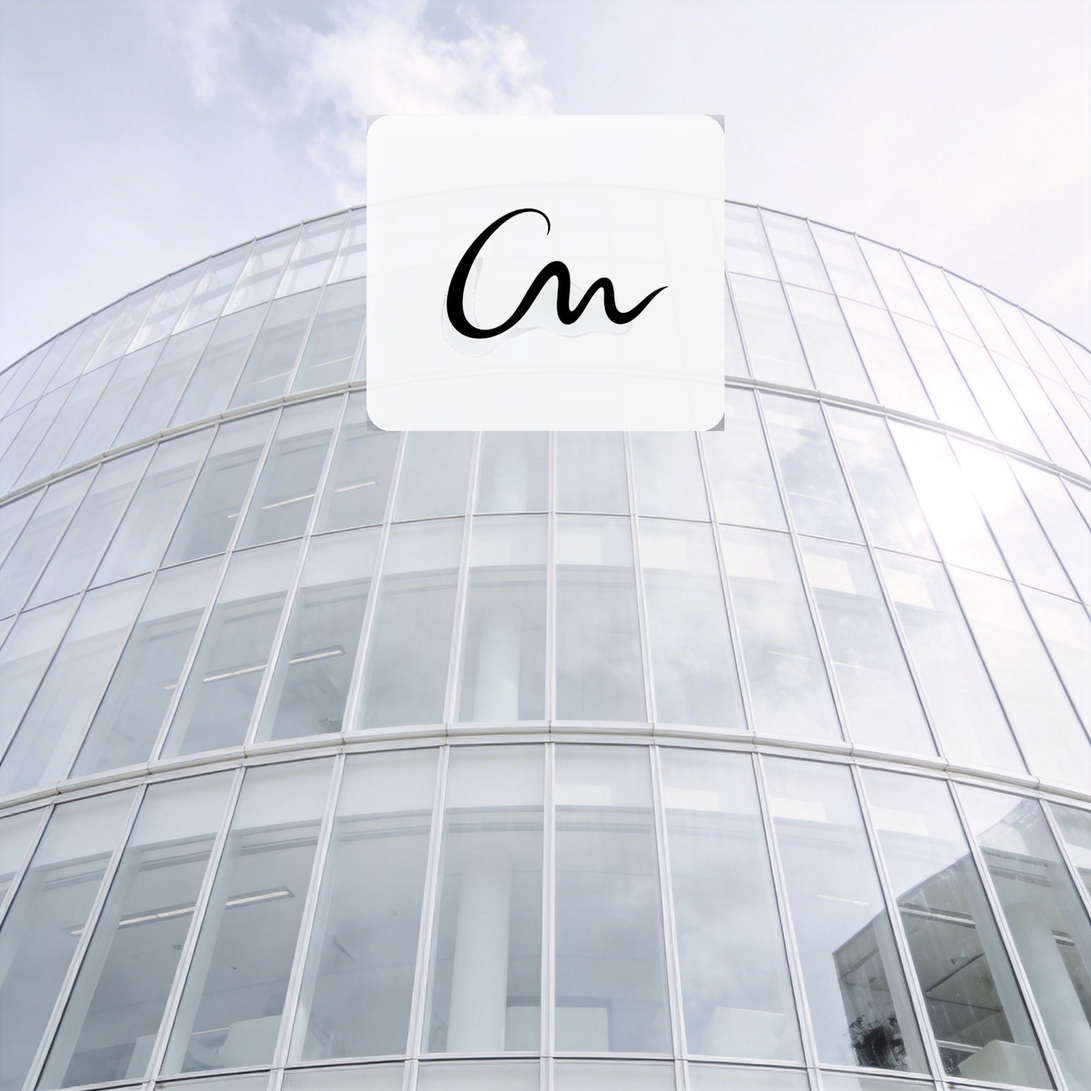
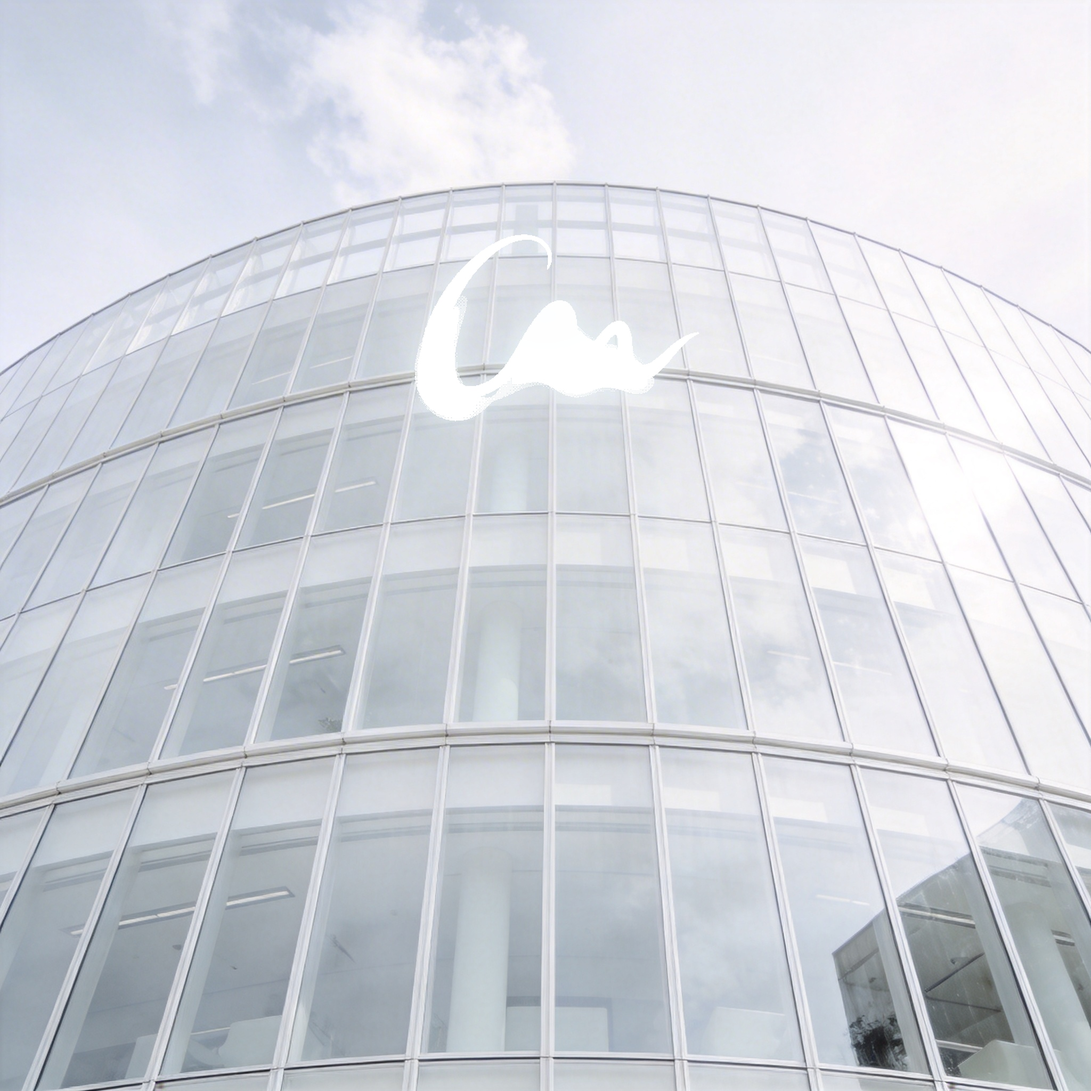
feat: 大场景logo改为白色发光线条效果，实物化处理

Changed region(s): [[0.3125, 0.1562, 0.6562, 0.4062], [0.5938, 0.3125, 0.6562, 0.375]]

diff --git a/create-glowing-logo.py b/create-glowing-logo.py
@@ -1,0 +1,99 @@
+#!/usr/bin/env python3
+from PIL import Image, ImageFilter, ImageEnhance
+import numpy as np
+import os
+
+def create_white_line_logo():
+    """创建白色发光线条logo"""
+    # 读取透明背景logo
+    logo_path = "/workspace/projects/public/cm-logo-transparent.png"
+    logo = Image.open(logo_path).convert("RGBA")
+    data = np.array(logo)
+
+    # 将黑色像素转换为白色，保留透明度
+    r, g, b, a = data[:, :, 0], data[:, :, 1], data[:, :, 2], data[:, :, 3]
+
+    # 找到非透明像素（logo内容）
+    is_logo = a > 0
+
+    # 将非透明像素的颜色改为白色
+    data[is_logo, 0] = 255  # R
+    data[is_logo, 1] = 255  # G
+    data[is_logo, 2] = 255  # B
+
+    # 保存为纯白色线条logo
+    white_logo = Image.fromarray(data)
+    white_logo.save("/workspace/projects/public/cm-logo-white-line.png", "PNG")
+
+    print("✅ 纯白色线条logo已保存: cm-logo-white-line.png")
+    print(f"   尺寸: {white_logo.size}")
+
+    return white_logo
+
+def create_glowing_line_logo(base_logo, glow_layers=3):
+    """创建多层发光效果的线条logo"""
+    result = base_logo.copy()
+    data = np.array(result)
+
+    # 多层发光
+    for i in range(glow_layers):
+        # 每一层的发光参数
+        blur_radius = 10 + i * 8
+        opacity = 80 - i * 20
+
+        # 创建发光层
+        glow = base_logo.copy()
+        glow_data = np.array(glow)
+
+        # 设置发光颜色（白色带蓝色调）
+        r, g, b, a = glow_data[:, :, 0], glow_data[:, :, 1], glow_data[:, :, 2], glow_data[:, :, 3]
+
+        # 只对非透明像素应用发光
+        is_non_transparent = a > 0
+
+        # 设置发光颜色
+        glow_data[is_non_transparent, 0] = 240  # R (略带蓝色)
+        glow_data[is_non_transparent, 1] = 245  # G
+        glow_data[is_non_transparent, 2] = 255  # B
+        glow_data[is_non_transparent, 3] = opacity  # 透明度
+
+        glow = Image.fromarray(glow_data)
+
+        # 应用高斯模糊
+        glow = glow.filter(ImageFilter.GaussianBlur(blur_radius))
+
+        # 合并发光层到结果
+        result = Image.alpha_composite(result, glow)
+
+    # 添加核心线条（最亮的）
+    core_line = base_logo.copy()
+    core_data = np.array(core_line)
+    r, g, b, a = core_data[:, :, 0], core_data[:, :, 1], core_data[:, :, 2], core_data[:, :, 3]
+
+    is_non_transparent = a > 0
+    core_data[is_non_transparent, 0] = 255  # 纯白色
+    core_data[is_non_transparent, 1] = 255
+    core_data[is_non_transparent, 2] = 255
+    core_data[is_non_transparent, 3] = 255  # 不透明
+
+    core_line = Image.fromarray(core_data)
+    result = Image.alpha_composite(result, core_line)
+
+    result.save("/workspace/projects/public/cm-logo-glowing-white.png", "PNG")
+    print("✅ 发光白色线条logo已保存: cm-logo-glowing-white.png")
+
+    return result
+
+# 执行
+print("开始创建白色发光线条logo...")
+print()
+
+# 1. 创建纯白色线条logo
+white_logo = create_white_line_logo()
+print()
+
+# 2. 创建多层发光效果
+glowing_logo = create_glowing_line_logo(white_logo, glow_layers=4)
+print()
+
+print("✅ 完成！")

diff --git a/composite-building-logo.py b/composite-building-logo.py
@@ -1,0 +1,90 @@
+#!/usr/bin/env python3
+from PIL import Image, ImageFilter, ImageEnhance
+import numpy as np
+import os
+
+def composite_glowing_logo_to_building():
+    """将发光线条logo合成到大场景上"""
+    # 读取清洁的大场景
+    building = Image.open("/workspace/projects/public/building-clean.jpg").convert("RGBA")
+
+    # 读取发光logo
+    logo = Image.open("/workspace/projects/public/cm-logo-glowing-white.png").convert("RGBA")
+
+    # 调整logo大小（根据建筑大小）
+    logo_width = 600  # logo宽度
+    logo_height = int(logo_width / logo.size[0] * logo.size[1])
+    logo_resized = logo.resize((logo_width, logo_height), Image.Resampling.LANCZOS)
+
+    # 计算位置：放在建筑顶部中央位置
+    x = (building.size[0] - logo_width) // 2
+    y = building.size[1] // 6  # 从顶部1/6处开始
+
+    # 创建一个临时图层来合成logo
+    result = building.copy()
+
+    # 为logo添加额外的环境光反射效果
+    logo_data = np.array(logo_resized)
+    r, g, b, a = logo_data[:, :, 0], logo_data[:, :, 1], logo_data[:, :, 2], logo_data[:, :, 3]
+
+    # 对logo进行轻微的颜色调整，使其与建筑玻璃反光融合
+    is_non_transparent = a > 0
+
+    # 增加一些蓝色调，模拟玻璃反光
+    logo_data[is_non_transparent, 0] = np.clip(logo_data[is_non_transparent, 0] * 1.0, 0, 255)
+    logo_data[is_non_transparent, 1] = np.clip(logo_data[is_non_transparent, 1] * 1.05, 0, 255)
+    logo_data[is_non_transparent, 2] = np.clip(logo_data[is_non_transparent, 2] * 1.1, 0, 255)
+
+    logo_resized = Image.fromarray(logo_data)
+
+    # 合成logo到建筑
+    result.paste(logo_resized, (x, y), logo_resized)
+
+    # 添加全局发光氛围（在logo周围的轻微光晕）
+    glow_layer = Image.new("RGBA", building.size, (0, 0, 0, 0))
+
+    # 在logo位置创建一个淡淡的蓝色光晕
+    glow_radius = 150
+    glow_x = x + logo_width // 2
+    glow_y = y + logo_height // 2
+
+    # 创建径向渐变光晕
+    for i in range(glow_radius, 0, -5):
+        alpha = int(30 * (1 - i / glow_radius))  # 中心不透明，边缘透明
+        color = (240, 245, 255, alpha)
+
+        # 绘制椭圆光晕
+        from PIL import ImageDraw
+        draw = ImageDraw.Draw(glow_layer)
+        bbox = [
+            glow_x - i,
+            glow_y - int(i * 0.6),
+            glow_x + i,
+            glow_y + int(i * 0.6)
+        ]
+        draw.ellipse(bbox, fill=color)
+
+    # 合并光晕
+    result = Image.alpha_composite(result, glow_layer)
+
+    # 转换为RGB并保存
+    result_rgb = result.convert("RGB")
+    output_path = "/workspace/projects/public/building-final.jpg"
+    result_rgb.save(output_path, "JPEG", quality=98)
+
+    print(f"✅ 发光线条logo已合成到大场景")
+    print(f"   输出: {output_path}")
+    print(f"   Logo位置: ({x}, {y})")
+    print(f"   Logo尺寸: {logo_width}x{logo_height}")
+
+    return output_path
+
+# 执行
+print("开始将发光线条logo合成到大场景...")
+print()
+
+output = composite_glowing_logo_to_building()
+
+print()
+print("✅ 完成！")
+print(f"新的大场景已保存: {output}")

diff --git a/verify-building-logo.py b/verify-building-logo.py
@@ -1,0 +1,55 @@
+#!/usr/bin/env python3
+from PIL import Image
+import numpy as np
+
+# 对比旧图片和新图片
+old_img = Image.open('/workspace/projects/public/building-clean.jpg')
+new_img = Image.open('/workspace/projects/public/building-final.jpg')
+
+print("=== 大场景logo合成对比 ===")
+print()
+print(f"清洁大场景尺寸: {old_img.size}")
+print(f"最终大场景尺寸: {new_img.size}")
+print()
+
+# 转换为RGB进行比较
+old_rgb = np.array(old_img.convert('RGB'))
+new_rgb = np.array(new_img.convert('RGB'))
+
+# 计算差异
+diff = np.abs(old_rgb.astype(int) - new_rgb.astype(int))
+max_diff = diff.max()
+mean_diff = diff.mean()
+
+print("像素差异统计:")
+print(f"最大差异值: {max_diff}")
+print(f"平均差异值: {mean_diff:.2f}")
+
+# 计算不同的像素比例
+diff_pixels = np.sum(diff > 15)
+total_pixels = old_rgb.shape[0] * old_rgb.shape[1]
+diff_ratio = (diff_pixels / total_pixels) * 100
+
+print(f"不同像素比例: {diff_ratio:.2f}%")
+print()
+
+if diff_ratio > 0.5:
+    print("✅ 图片有明显变化，发光线条logo已成功合成")
+else:
+    print("❌ 图片变化很小，可能没有正确合成")
+
+# 检查logo区域的亮度（应该增加）
+logo_region = new_rgb[300:800, 600:1200]  # logo所在区域
+logo_brightness = logo_region.mean()
+
+logo_region_clean = old_rgb[300:800, 600:1200]
+logo_brightness_clean = logo_region_clean.mean()
+
+print()
+print(f"Logo区域亮度对比:")
+print(f"合成前: {logo_brightness_clean:.2f}")
+print(f"合成后: {logo_brightness:.2f}")
+print(f"亮度提升: {(logo_brightness - logo_brightness_clean):.2f}")
+
+if logo_brightness > logo_brightness_clean:
+    print("✅ Logo区域亮度明显提升，发光效果有效")
